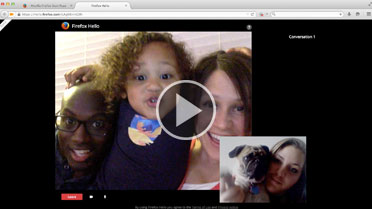
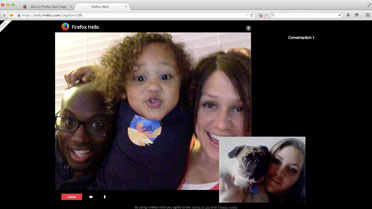
Updates:
- Separate room URL email/copy actions/tracking
- Separate play icon from video screenshot

diff --git a/media/css/firefox/hello.less b/media/css/firefox/hello.less
@@ -1298,12 +1298,30 @@ html[dir="rtl"] {
         width: 372px;
     }
 
-    // temporary placeholder
     #video-link {
+        position: relative;
         display: block;
         width: 372px;
         height: auto;
         background: #000;
+
+        &:after {
+            content: '';
+            position: absolute;
+            top: 50%;
+            left: 50%;
+            margin: -22px 0 0 -27px;
+            background: url(/media/img/firefox/hello/btn-play.png) left top no-repeat;
+            background-size: 57px 57px;
+            width: 57px;
+            height: 57px;
+            opacity: 0.5;
+            .transition();
+        }
+
+        &:hover:after {
+            opacity: 0.75;
+        }
     }
 }
 

diff --git a/media/js/firefox/hello.js b/media/js/firefox/hello.js
@@ -65,8 +65,10 @@
                     w.gaTrack(['_trackEvent', 'hello interactions', 'productPage', 'StartConversation-NoTour']);
                     break;
                 case 'Loop:RoomURLCopied':
-                    console.log('RoomURLCopied!');
-                    w.gaTrack(['_trackEvent', 'hello interactions', 'productPage', 'CopyLink-NoTour']);
+                    w.gaTrack(['_trackEvent', 'hello interactions', 'productPage', 'URLCopied-NoTour']);
+                    break;
+                case 'Loop:RoomURLEmailed':
+                    w.gaTrack(['_trackEvent', 'hello interactions', 'productPage', 'URLEmailed-NoTour']);
                     break;
             }
         });

diff --git a/bedrock/firefox/views.py b/bedrock/firefox/views.py
@@ -493,10 +493,4 @@ def hello(request):
         'zh-TW': 'https://videos.cdn.mozilla.net/uploads/FirefoxHello/firefoxhello_intro_chinese'
     }
 
-    video_url = videos.get(request.locale, '')
-
-    context = {
-        'video_url': video_url
-    }
-
-    return l10n_utils.render(request, 'firefox/hello.html', context)
+    return l10n_utils.render(request, 'firefox/hello.html', { 'video_url': videos.get(request.locale, '') })
